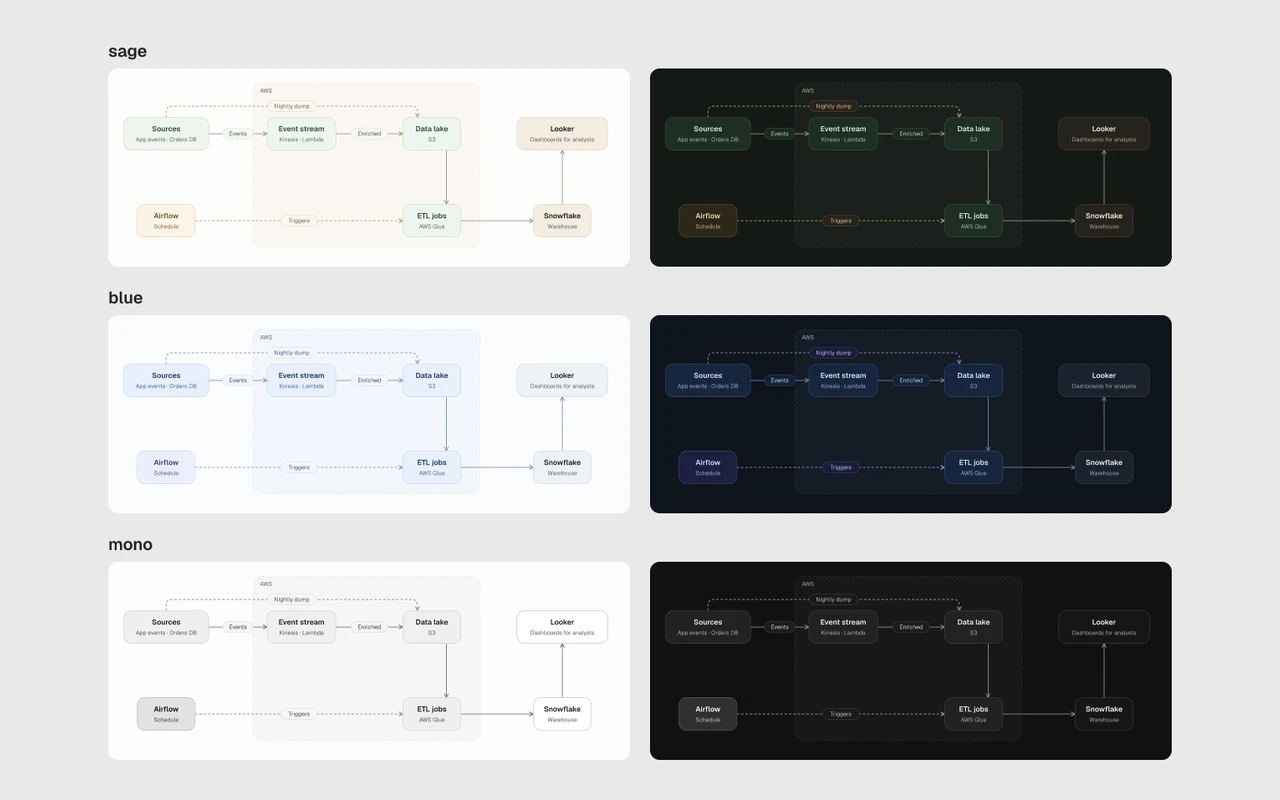
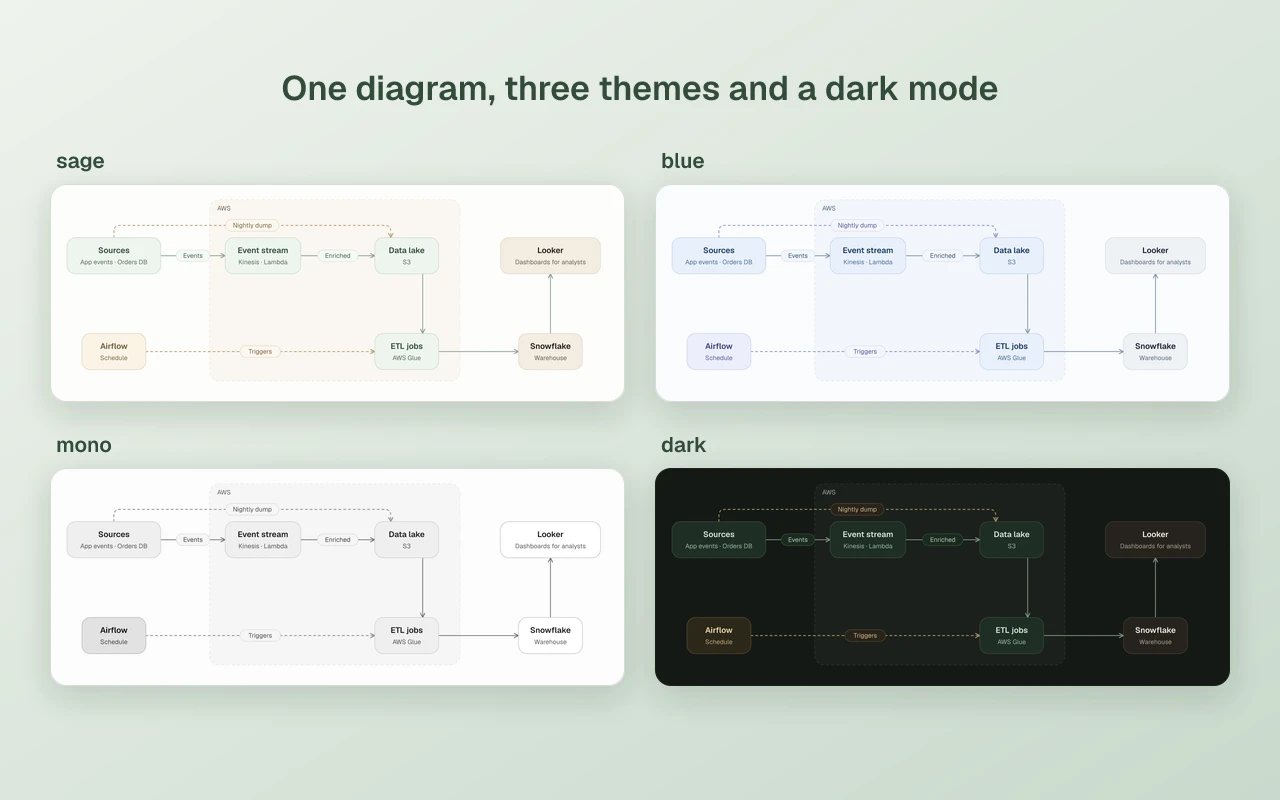
diagram-polish 테마 이미지를 네 장으로 줄임 (#51)

diff --git a/app/content/projects/diagram-polish/ja.ts b/app/content/projects/diagram-polish/ja.ts
@@ -49,7 +49,7 @@ export const ja: ProjectCopy = {
     main: "Mermaidの標準テーマで描いたデータパイプラインと、diagram-polishで描き直した同じパイプライン",
     gallery: [
       "メッセージ12個のMermaidシーケンス図と、同じシステムを7つの箱と矢印で描いた図",
-      "同じパイプラインをsage、blue、monoのテーマで、ライトとダークの両方で描いた図",
+      "同じパイプラインをsage、blue、monoのテーマで描いた図と、sageテーマのダークモード",
       "韓国語のラベルの構成図。AIクライアントが賃貸サイトを検索するMCPサーバーを呼び、履歴をSQLiteに保存する",
     ],
   },

diff --git a/app/content/projects/diagram-polish/ko.ts b/app/content/projects/diagram-polish/ko.ts
@@ -49,7 +49,7 @@ export const ko: ProjectCopy = {
     main: "Mermaid 기본 테마로 그린 데이터 파이프라인과, diagram-polish로 다시 그린 같은 파이프라인",
     gallery: [
       "메시지 12개의 Mermaid 시퀀스 다이어그램과, 같은 시스템을 박스 7개와 화살표로 그린 모습",
-      "같은 파이프라인을 sage, blue, mono 테마의 라이트와 다크로 그린 모습",
+      "같은 파이프라인을 sage, blue, mono 테마로 그린 모습과, sage 테마의 다크 모드",
       "한국어 라벨의 구성도. AI 클라이언트가 임대 사이트를 검색하는 MCP 서버를 호출하고 이력을 SQLite에 보관한다",
     ],
   },

diff --git a/app/content/projects/diagram-polish/index.ts b/app/content/projects/diagram-polish/index.ts
@@ -61,7 +61,7 @@ export const diagramPolish: Project = {
   ],
   gallery: [
     { src: sequence, alt: "A Mermaid sequence diagram with twelve messages, next to the same system drawn as seven boxes and arrows" },
-    { src: themes, alt: "The same pipeline in the sage, blue and mono themes, each in a light and a dark version" },
+    { src: themes, alt: "The same pipeline in the sage, blue and mono themes, and the sage theme in dark mode" },
     { src: korean, alt: "A diagram with Korean labels: an AI client calls an MCP server that searches a rental site and keeps its history in SQLite" },
   ],
   stack: [
